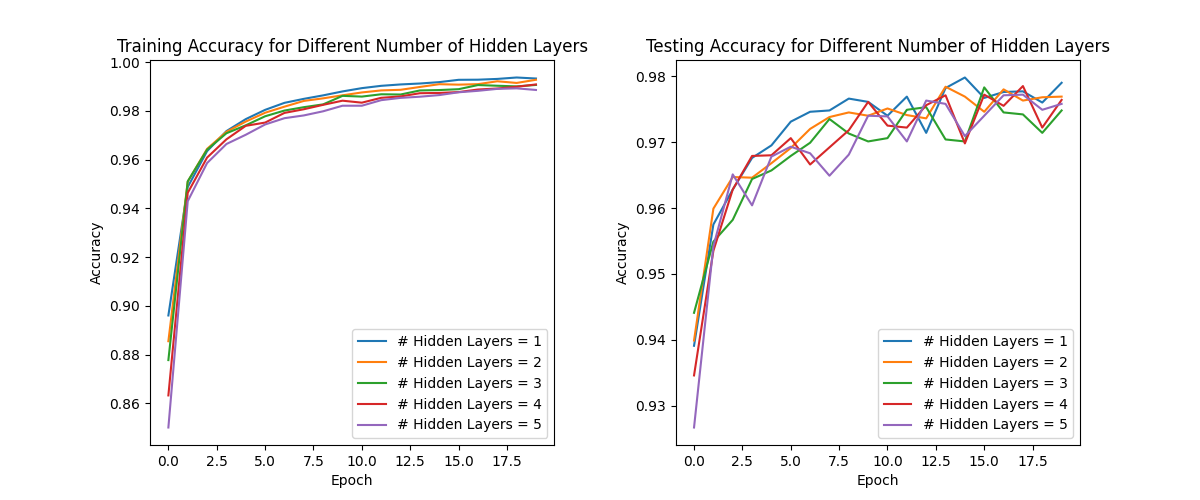
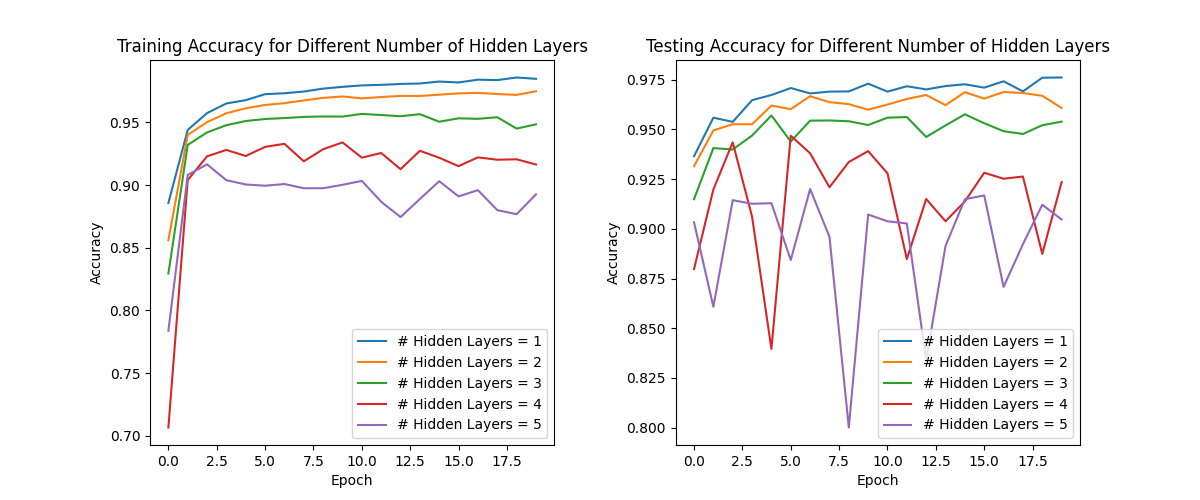
feat: HW3 - use CELoss & BatchNorm

diff --git a/HW3/train.py b/HW3/train.py
@@ -43,12 +43,12 @@ def train(model, trainloader, testloader, criterion, optimizer, n_epochs, device
                 correct += (outputs.argmax(1) == labels).sum().item()
         result["test_accuracy"] = correct / total
         history.append(result)
-        print(f"Epoch {epoch+1}/{n_epochs}: train_accuracy={result['train_accuracy']}, test_accuracy={result['test_accuracy']}, best_accuracy={best_accuracy}")
         # Save the model if the test accuracy is the best
         if result["test_accuracy"] > best_accuracy:
             best_accuracy = result["test_accuracy"]
             if save_path is not None:
                 torch.save(model.state_dict(), save_path)
+        print(f"Epoch {epoch+1}/{n_epochs}: train_accuracy={result['train_accuracy']}, test_accuracy={result['test_accuracy']}, best_accuracy={best_accuracy}")
 
     return history
 
@@ -57,7 +57,7 @@ def main():
     parser.add_argument("-p", "--part", dest="part", required=True, help="part number")
     args = parser.parse_args()
 
-    train_batch_size = 64
+    train_batch_size = 32
 
     if args.part != "4":
         # Load MNIST dataset
@@ -81,8 +81,8 @@ def main():
 
     # Shared hyperparameters
     n_epochs = 20
-    random_seed = 42
-    criterion = torch.nn.MSELoss()
+    random_seed = 67
+    criterion = torch.nn.CrossEntropyLoss()
 
     if args.part == "1":
         # Part 1-1: Different number of neurons with 1 hidden layer
@@ -133,7 +133,7 @@ def main():
         for num_hidden_layers in num_hidden_layers_list:
             avoid_randomness(random_seed)
             print(f"Start training with num_hidden_layers={num_hidden_layers}")
-            model = DNN(2, 4, 100, num_hidden_layers).to(device)
+            model = DNN(2, 4, 100, num_hidden_layers, True).to(device) # batch_norm=True
             optimizer = torch.optim.Adam(model.parameters())
             history = train(model, trainloader, testloader, criterion, optimizer, n_epochs, device, 4, f"./models/hw2_num_hidden_layers_{num_hidden_layers}.pth")
             history_path = f"./history/hw2_num_hidden_layers_{num_hidden_layers}.pkl"

diff --git a/HW3/model.py b/HW3/model.py
@@ -3,7 +3,7 @@ import torch.nn as nn
 import torch.nn.functional as F
 
 class DNN(nn.Module):
-    def __init__(self, input_dim, output_dim, hidden_dim, num_hidden_layers):
+    def __init__(self, input_dim, output_dim, hidden_dim, num_hidden_layers, batch_norm):
         super(DNN, self).__init__()
 
         self.input_dim = input_dim
@@ -13,6 +13,8 @@ class DNN(nn.Module):
         seq.append(nn.ReLU())
         for _ in range(num_hidden_layers):
             seq.append(nn.Linear(hidden_dim, hidden_dim))
+            if batch_norm:
+                seq.append(nn.BatchNorm1d(hidden_dim))
             seq.append(nn.ReLU())
         seq.append(nn.Linear(hidden_dim, output_dim))
         

diff --git a/HW3/plot_boundary.py b/HW3/plot_boundary.py
@@ -14,7 +14,7 @@ if __name__ == "__main__":
     for num_hidden_layers in num_hidden_layers_list:
         print(f"Plotting boundary for model with {num_hidden_layers} hidden layers")
         model_path = f"./models/hw2_num_hidden_layers_{num_hidden_layers}.pth"
-        model = DNN(2, 4, 100, num_hidden_layers).to(device)
+        model = DNN(2, 4, 100, num_hidden_layers, True).to(device)
         model.load_state_dict(torch.load(model_path))
         model.eval()
         pred = torch.zeros(0, dtype=torch.int64).to(device)

diff --git a/HW3/plot_confusion.py b/HW3/plot_confusion.py
@@ -30,7 +30,7 @@ if __name__ == "__main__":
     for num_hidden_layers in num_hidden_layers_list:
         print(f"Plotting boundary for model with {num_hidden_layers} hidden layers")
         model_path = f"./models/hw2_num_hidden_layers_{num_hidden_layers}.pth"
-        model = DNN(2, 4, 100, num_hidden_layers).to(device)
+        model = DNN(2, 4, 100, num_hidden_layers, True).to(device)
         model.load_state_dict(torch.load(model_path))
         model.eval()
         pred = torch.zeros(0, dtype=torch.int64).to(device)
